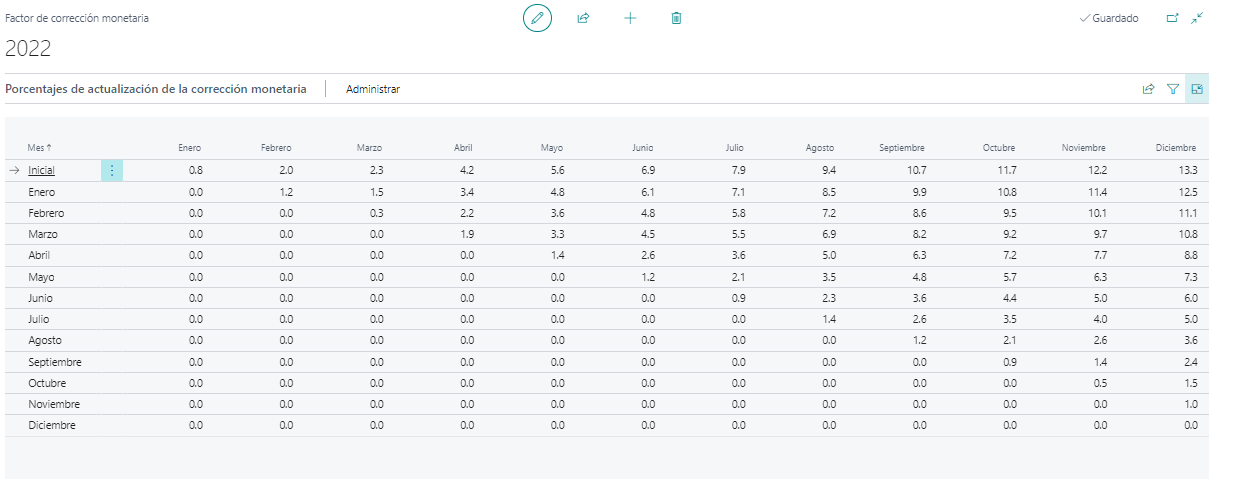
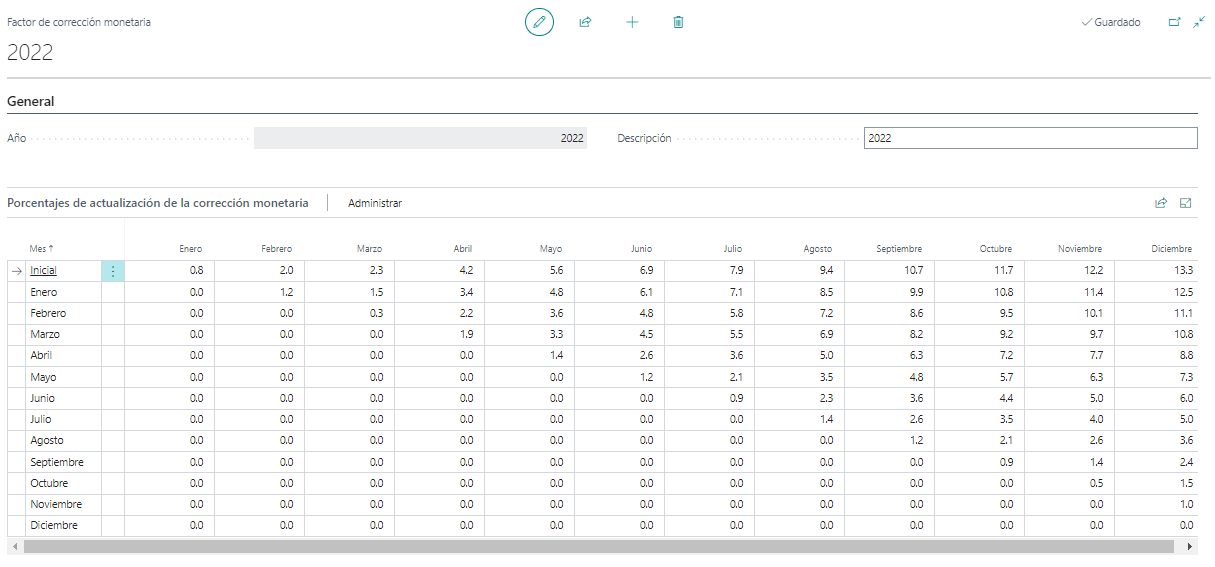
.

diff --git a/docs/Corrección Monetaria Activo Fijo/Parámetros Del Módulo De Activos Fijos/Factores de Corrección Monetaria.md b/docs/Corrección Monetaria Activo Fijo/Parámetros Del Módulo De Activos Fijos/Factores de Corrección Monetaria.md
@@ -26,10 +26,18 @@ La información de los porcentajes de actualización para el cálculo de la corr
     <img src="https://github.com/Localis365/Artware-LATAM-Localization-Help/blob/main/docs/Correcci%C3%B3n%20Monetaria%20Activo%20Fijo/img/FactoresCorreccionMonetaria/Menu-Page.png" width="650px"</img> 
 </div>
 
-<h4><i><b>La Ventana Factores de Corrección Monetaria </b></i></h4>
+<i><b>La Ventana Factores de Corrección Monetaria </b></i>
 
 <div align="center">
-    <img src="https://github.com/Localis365/Artware-LATAM-Localization-Help/blob/main/docs/Correcci%C3%B3n%20Monetaria%20Activo%20Fijo/img/FactoresCorreccionMonetaria/LaVentanaFactoresCM.png" width="650px"</img> 
+    <img src="https://github.com/Localis365/Artware-LATAM-Localization-Help/blob/main/docs/Correcci%C3%B3n%20Monetaria%20Activo%20Fijo/img/FactoresCorreccionMonetaria/LaVentanaFactoresCM.png" width="750px"</img> 
+</div>
+
+Para la <b>creación de un nuevo año tributario</b> y sus correspondientes porcentajes de variación a aplicar, se debe oprimir el botón crear nuevo.
+
+A partir del cual se abre el formulario principal de creación donde se indica el año pertinente Y la descripción:
+
+<div align="center">
+    <img src="https://github.com/Localis365/Artware-LATAM-Localization-Help/blob/main/docs/Correcci%C3%B3n%20Monetaria%20Activo%20Fijo/img/FactoresCorreccionMonetaria/PorcentajesActualizacionCM.png" width="950px"</img> 
 </div>
 
 
@@ -37,6 +45,4 @@ En la siguiente tabla se presentan los porcentajes de corrección monetaria para
 
 **Porcentajes de Actualización Correccion Monetaria (Termino de Giro),Año 2022**
 
-<div align="center">
-    <img src="https://github.com/Localis365/Artware-LATAM-Localization-Help/blob/main/docs/Correcci%C3%B3n%20Monetaria%20Activo%20Fijo/img/FactoresCorreccionMonetaria/PorcentajesActualizacionCM.png" width="950px"</img> 
-</div>
+
